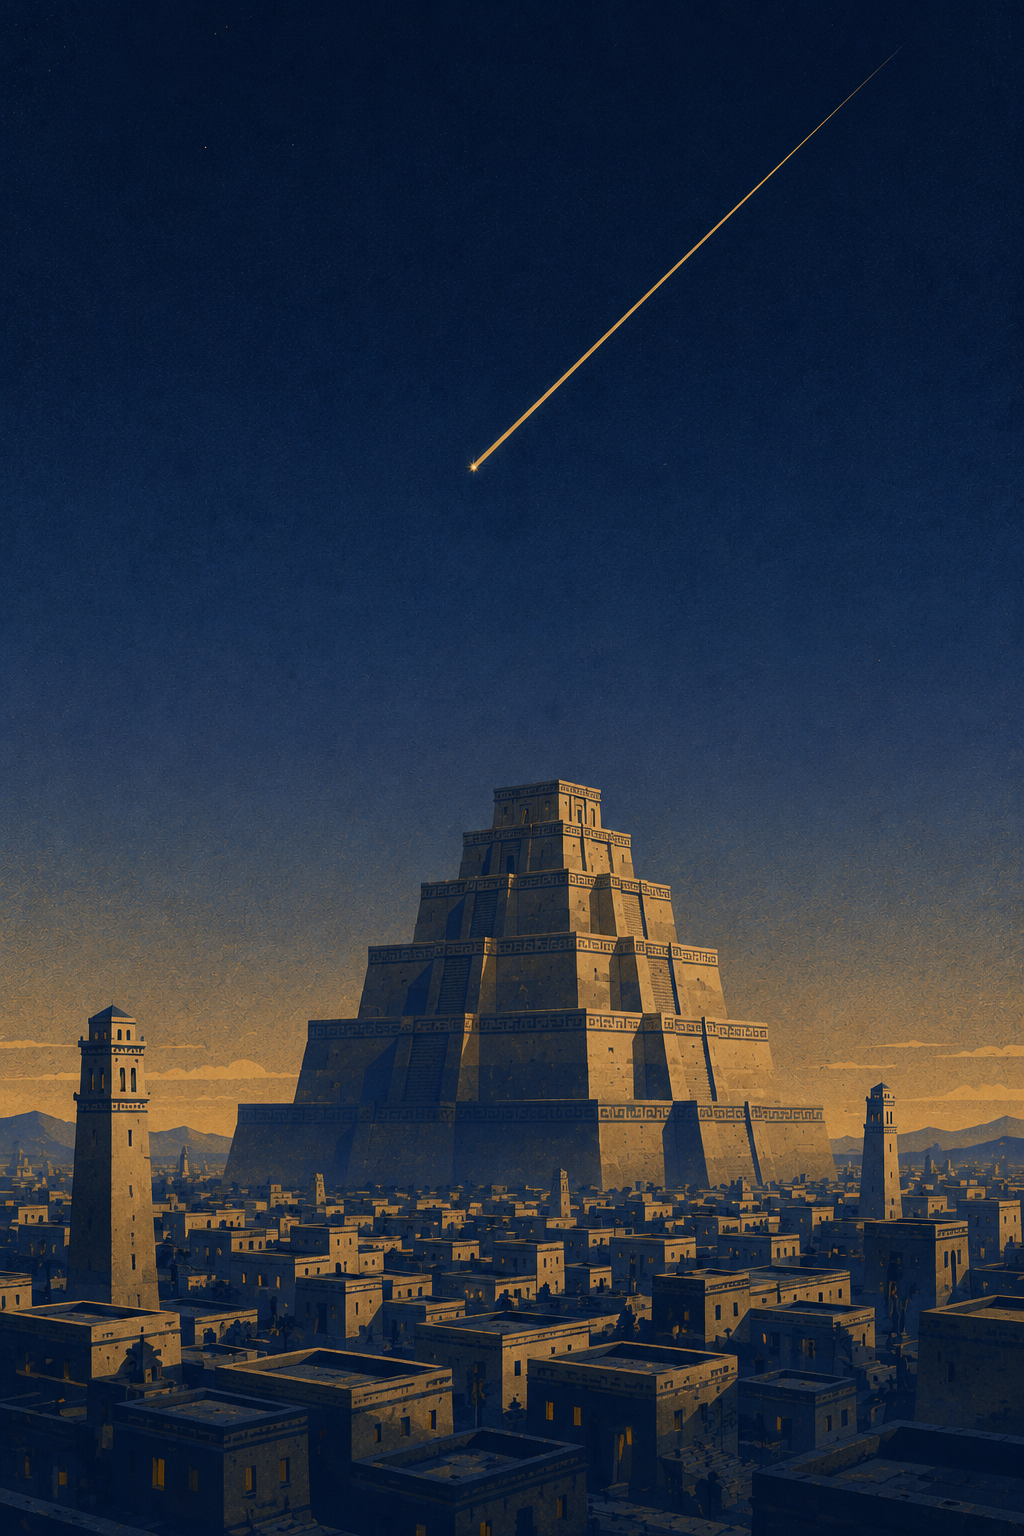
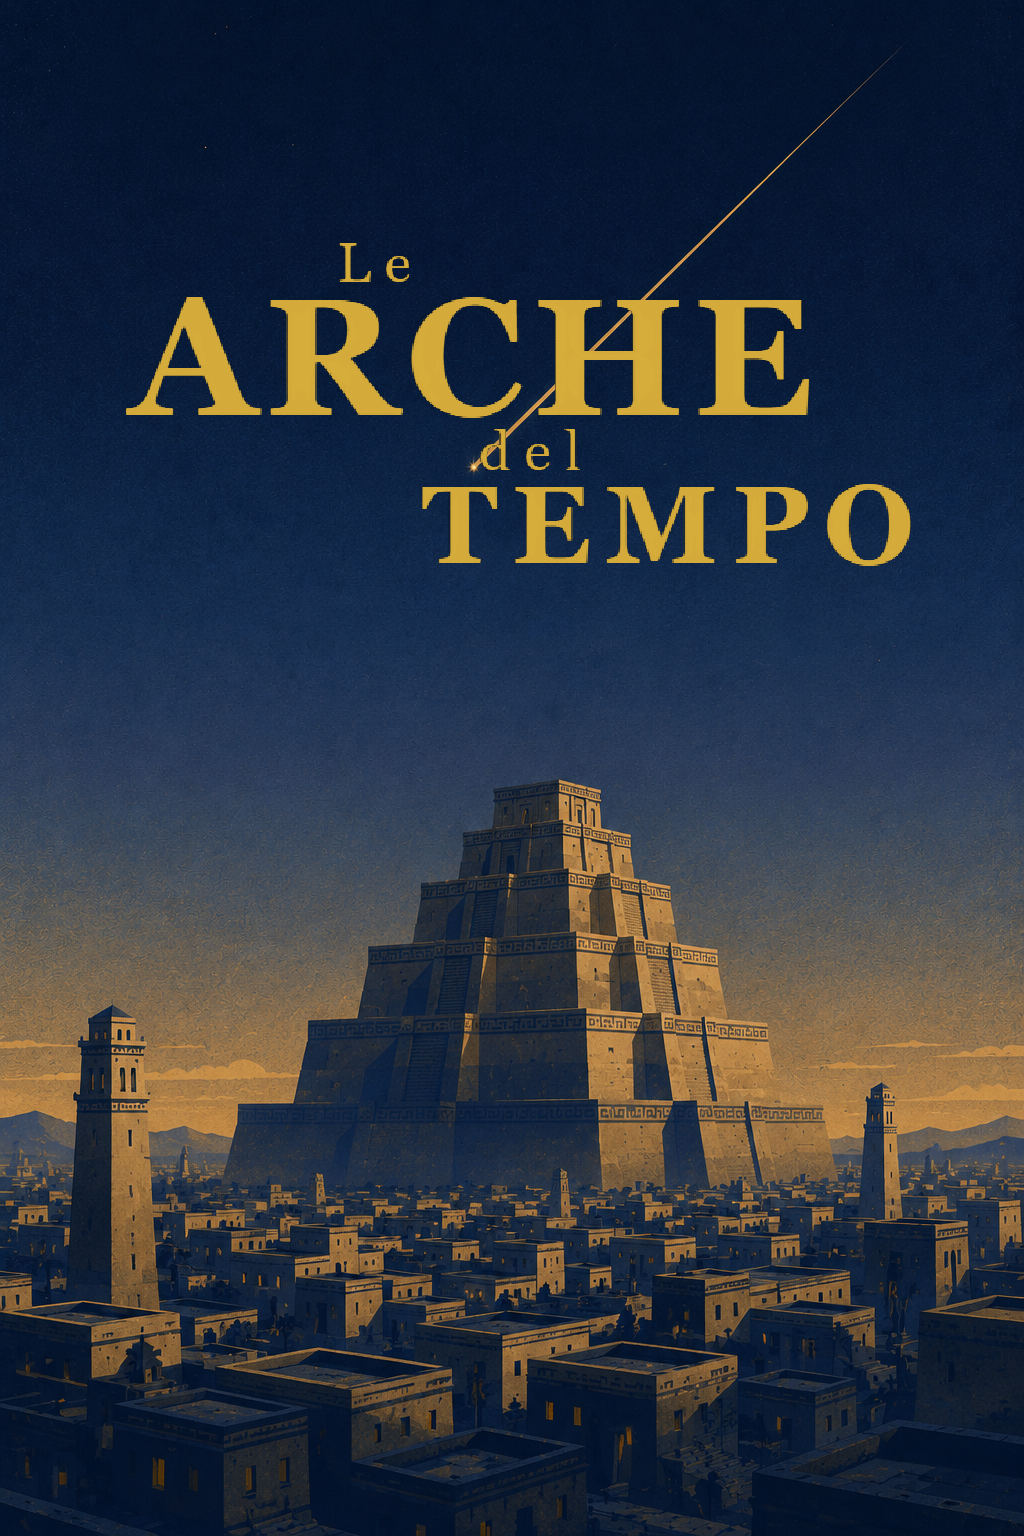
Ripristinati alcuni malfunzionamenti

diff --git a/css/style.css b/css/style.css
@@ -27,6 +27,7 @@
     --testo-secondario: var(--grigio-cielo);
     --bottoni-sfondo: var(--oro);
     --bottoni-testo: var(--blunotte);
+    --paragrafo: var(--avorio);
 
 
     /* =========================
@@ -54,10 +55,7 @@ body {
     text-align: center;
 }
 
-p {
-    color: var(--avorio);
-    font-size: 18px;
-}
+
 
 
 a {
@@ -104,6 +102,8 @@ h1 {
     font-size: 48px;
     letter-spacing: 3px;
     color: var(--oro);
+    text-align: center;
+    text-transform:uppercase;
 }
 
 
@@ -249,13 +249,6 @@ nav a {
    HERO
 ===================================== */
 
-.hero h1 {
-
-    font-size:60px;
-    color:var(--oro);
-
-}
-
 
 .hero h2 {
 
@@ -357,8 +350,8 @@ nav a {
    TESTI
 ===================================== */
 
-.titolo{
-    padding-top:30px;
+#numero-capitolo{
+    font-size: 28px;
 }
 
 .description {
@@ -649,6 +642,7 @@ button.button{
     --titolo:#4a453c;
     --oro:#9a6c00;
     --oro-scuro:#765000;
+    --paragrafo:var(--blu-profondo);
 
 }
 
@@ -813,6 +807,11 @@ button.button{
 /* =====================================
    IL LIBRO
 ===================================== */
+
+
+.pagina-libro p{
+    font-size: 18px;
+}
 
 .immagine-promo{
     width:100%;

diff --git a/js/lettura.js b/js/lettura.js
@@ -169,13 +169,15 @@ async function avvia(){
 
 function mostraParte(risultato){
 
+    document.getElementById("numero-capitolo")
+        .textContent =
+        "Capitolo " +
+        risultato.capitolo.numero;
+
 
     document.getElementById("titolo-capitolo")
-    .textContent =
-    "Capitolo " +
-    risultato.capitolo.numero +
-    " - " +
-    risultato.capitolo.titolo;
+        .textContent = 
+        risultato.capitolo.titolo;
 
     let indiceParte =
         risultato.capitolo.parti.findIndex(

diff --git a/index.html b/index.html
@@ -56,12 +56,7 @@
 
         </div>
 
-        <p class="description">            
-            <h2>
-                Un avvertimento da una civiltà perduta. Un mistero nascosto nella storia dell'umanità.
-            </h2>
-            
-        </p>
+      
 
     
         <a class="button" href="capitoli.html">

diff --git a/acquista.html b/acquista.html
@@ -37,8 +37,6 @@
 
             <p class="tag-romanzo">Fantascienza ♦ Mistero ♦ Young adult</p>
 
-            <h2>Le Arche del Tempo</h2>
-
             <p class="stato-libro">
 
                 <strong>L'edizione cartacea non è ancora disponibile.</strong>

diff --git a/js/progresso.js b/js/progresso.js
@@ -41,7 +41,7 @@ function parteLetta(idParte) {
 
 // segna una parte come completata
 function completaParte(idParte) {
- console.log("SALVO PARTE:", idParte);
+    
     let progresso = getProgresso();
 
 

diff --git a/lettura.html b/lettura.html
@@ -21,7 +21,8 @@
 
 <div id="lettore" class="contenitore">
 
-
+    <h1 id="numero-capitolo"></h1>
+    
     <h1 id="titolo-capitolo" class="titolo"></h1>
 
     <div class="intestazione-lettura">

diff --git a/js/indice.js b/js/indice.js
@@ -5,7 +5,6 @@ let capitoloAperto = getCapitoloAperto();
 
 function creaIndice() {
 
-    console.log(romanzo);
     for (let cap of romanzo) {
 
         if(cap.tipo === "interludio"){

diff --git a/js/parser-romanzo.js b/js/parser-romanzo.js
@@ -1,6 +1,6 @@
 let romanzo = [];
 
-const PAROLE_PER_PARTE = 1500;
+const PAROLE_PER_PARTE = 1200;
 
 async function caricaRomanzo(){
 
